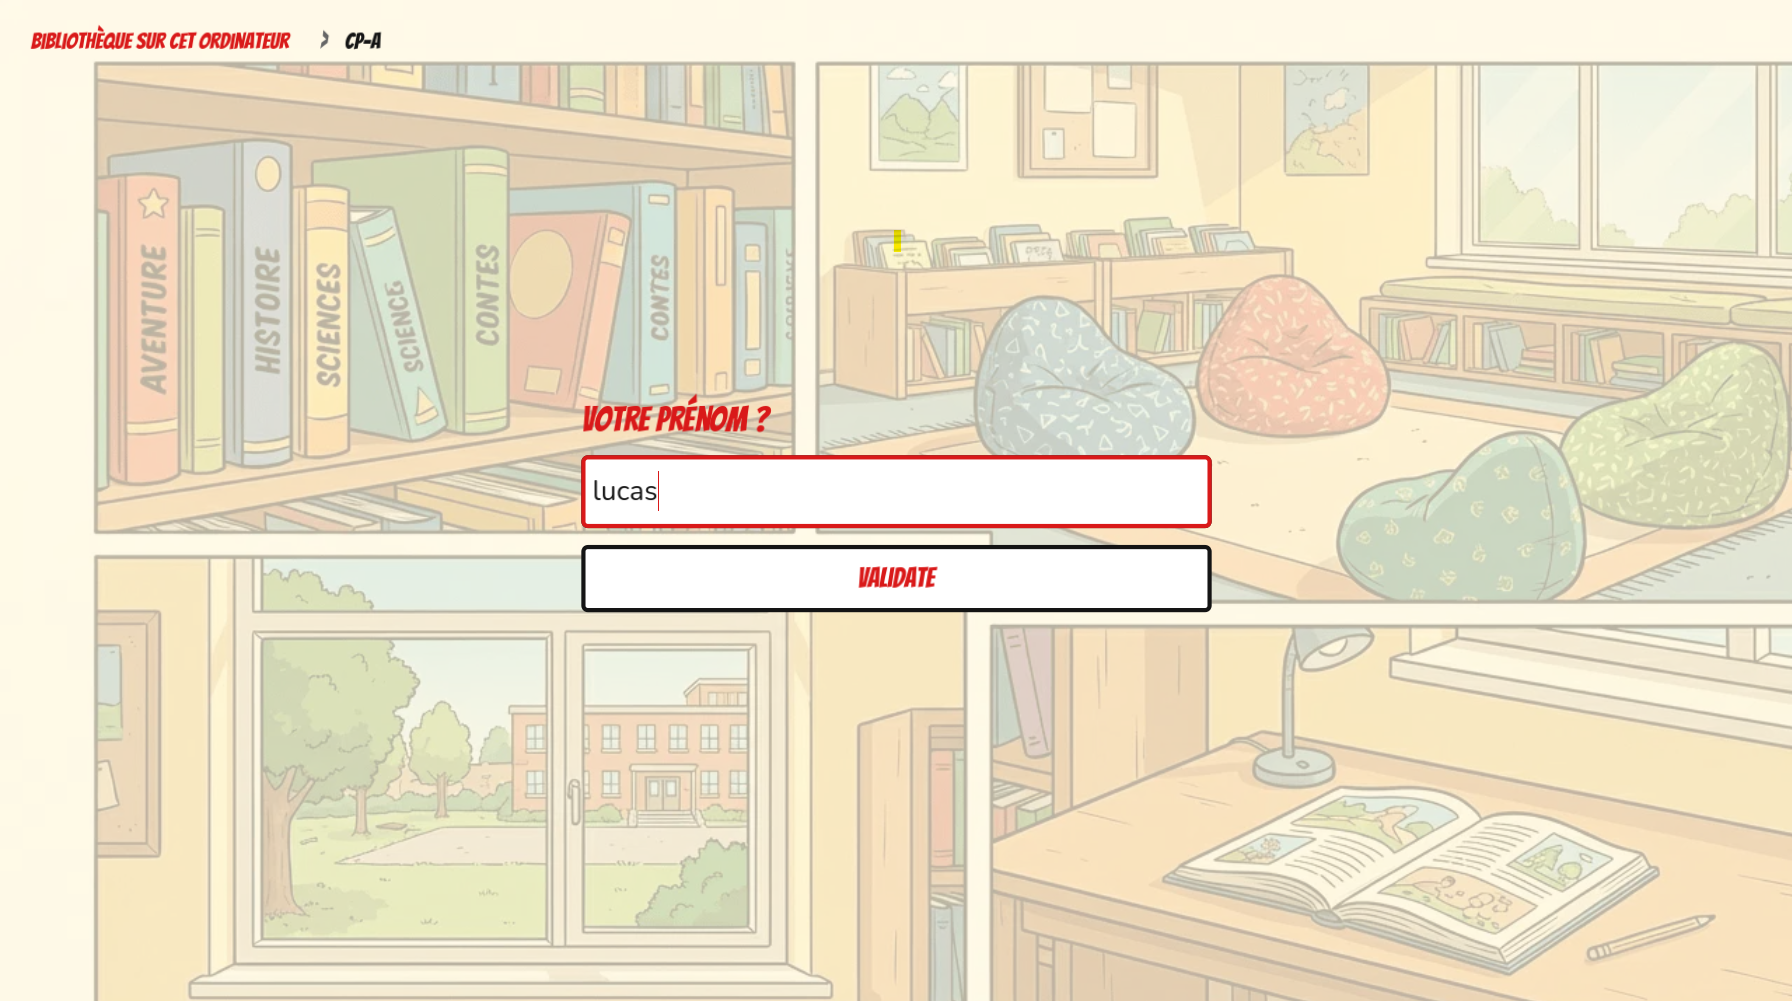
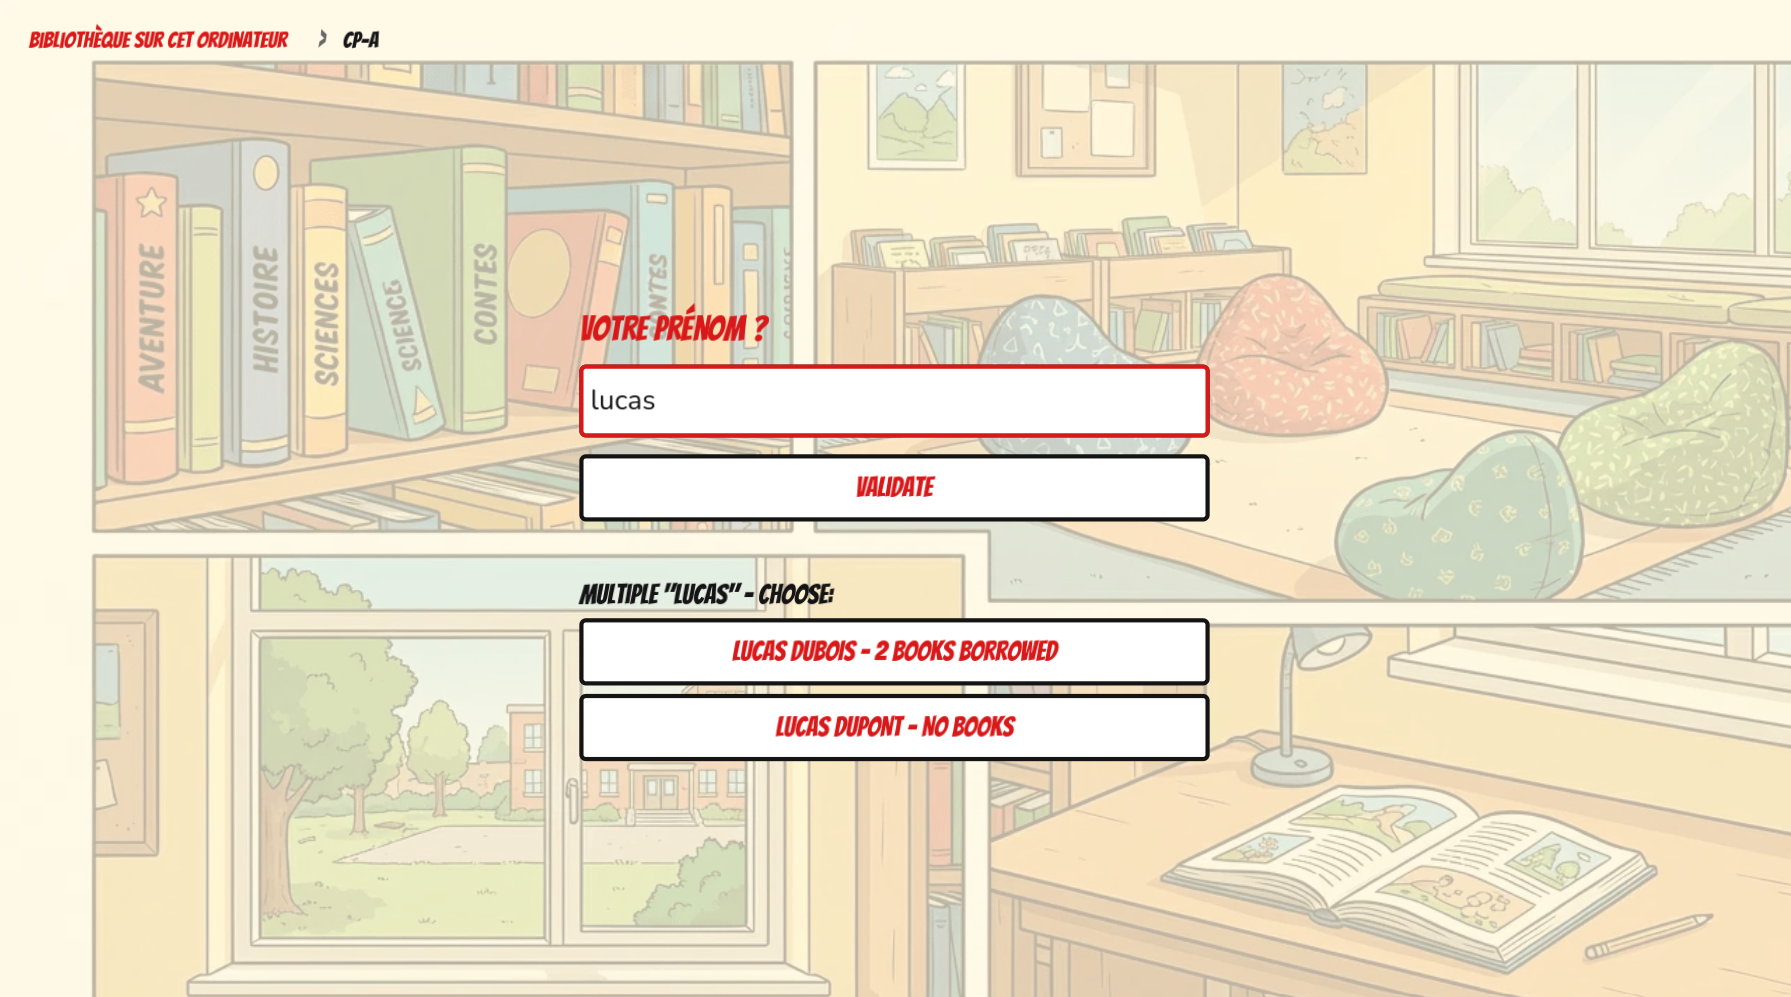
update doc

diff --git a/README_FR.md b/README_FR.md
@@ -24,9 +24,9 @@ L'interface web principale s'exécute dans le navigateur et offre toutes les fon
 
 ### BCD Kids (enfants)
 
-![BCD Kids](bcd_kids/docs/screenshots/bcd-kids-4-borrower.png)
-
 Application conçue pour les élèves de primaire (6-11 ans) :
+
+![BCD Kids](bcd_kids/docs/screenshots/bcd-kids-4-borrower.png)
 
 **Fonctionnalités** :
 - Emprunter des livres (scan de code-barres)
@@ -37,7 +37,7 @@ Application conçue pour les élèves de primaire (6-11 ans) :
 
 **Plateformes** : Windows (`.exe` 64 bits), Linux (`.x86_64` 64 bits)
 
-**Documentation** : [`bcd_kids/README.md`](bcd_kids/README.md)
+**Documentation** : [`bcd_kids/README_FR.md`](bcd_kids/README_FR.md)
 
 ---
 

diff --git a/README.md b/README.md
@@ -24,9 +24,9 @@ The main web interface runs in your browser and provides full library management
 
 ### BCD Kids
 
-![BCD Kids](bcd_kids/docs/screenshots/bcd-kids-4-borrower.png)
-
 A colorful, Desktop application designed for elementary school students (ages 6-11):
+
+![BCD Kids](bcd_kids/docs/screenshots/bcd-kids-4-borrower.png)
 
 **Features**:
 - ✅ Borrow books (barcode scanning)
